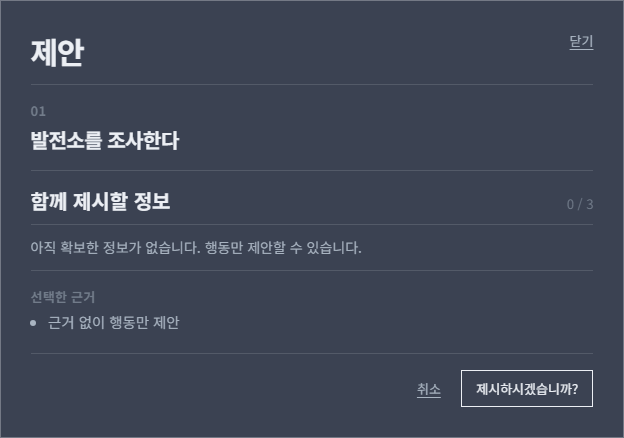
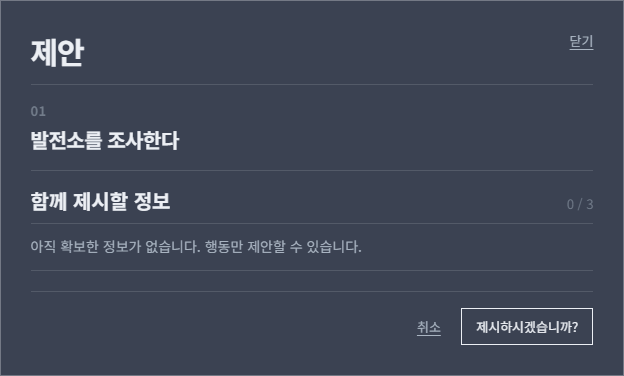
:memo: docs: refresh proposal dialog screenshots and guidance

diff --git a/src/styles/global.css b/src/styles/global.css
@@ -2428,8 +2428,7 @@ body {
 }
 
 .proposal-dialog-action p,
-.proposal-no-evidence,
-.proposal-selected-evidence span {
+.proposal-no-evidence {
   margin: 0;
   color: var(--plan-muted);
   font-size: 0.875rem;
@@ -2444,8 +2443,7 @@ body {
   padding: 1rem 0 0.6rem;
 }
 
-.proposal-evidence-heading p,
-.proposal-selected-evidence p {
+.proposal-evidence-heading p {
   margin: 0;
   color: var(--plan-ink);
   font-size: 1rem;
@@ -2505,29 +2503,6 @@ body {
 .proposal-no-evidence {
   border-bottom: 1px solid var(--plan-line);
   padding: 0.75rem 0;
-}
-
-.proposal-selected-evidence {
-  display: grid;
-  gap: 0.24rem;
-  margin-top: 1rem;
-  padding: 0;
-}
-
-.proposal-selected-evidence p {
-  color: var(--plan-faint);
-  font-family: "Noto Sans KR", sans-serif;
-  font-size: 0.84rem;
-  font-weight: 600;
-  letter-spacing: 0.02em;
-}
-
-.proposal-selected-evidence ul {
-  margin: 0;
-  padding-left: 1.1rem;
-  color: var(--plan-muted);
-  font-size: 0.9rem;
-  line-height: 1.6;
 }
 
 .proposal-dialog-actions {

diff --git a/src/components/report/ReportScreen.tsx b/src/components/report/ReportScreen.tsx
@@ -796,17 +796,6 @@ function ProposalEvidenceDialog({
           )}
         </div>
 
-        <div className="proposal-selected-evidence">
-          <p>선택한 근거</p>
-          <ul>
-            {selectedEvidenceIds.length === 0 ? (
-              <li>근거 없이 행동만 제안</li>
-            ) : (
-              selectedEvidenceIds.map((evidenceId) => <li key={evidenceId}>{EVIDENCE[evidenceId].title}</li>)
-            )}
-          </ul>
-        </div>
-
         <footer className="proposal-dialog-actions">
           <button type="button" className="proposal-cancel-button" onClick={onCancel}>취소</button>
           <button type="button" className="proposal-confirm-button" onClick={onConfirm}>제시하시겠습니까?</button>

diff --git a/src/styles/typography.css b/src/styles/typography.css
@@ -210,7 +210,6 @@
 .raw-log-window-lines p,
 .proposal-dialog-action p,
 .proposal-no-evidence,
-.proposal-selected-evidence span,
 .proposal-evidence-option small {
   font-size: var(--type-body-small);
   line-height: 1.55;
@@ -231,7 +230,6 @@
 .result-viewer-actor,
 .result-viewer-evidence strong,
 .proposal-dialog-action > span,
-.proposal-selected-evidence p,
 .proposal-evidence-heading > strong {
   font-size: var(--type-caption);
 }

diff --git a/README.md b/README.md
@@ -2,6 +2,8 @@
 
 ## [배포 URL: https://chaaaron000.github.io/beyond-the-screen-prototype/](https://chaaaron000.github.io/beyond-the-screen-prototype/)
 
+## [Penpot 워크스페이스](https://design.penpot.app/#/workspace?team-id=502b4555-3f5f-807a-8008-8a29dee3d6e7&file-id=502b4555-3f5f-807a-8008-8a2a27c83963&page-id=502b4555-3f5f-807a-8008-8a2a27c83964)
+
 OASIS 생활 구역 03에서 한서윤과 미라가 제한된 시간 안에 시설을 조사하고, 확보한 정보로 다음 행동을 판단하는 비주얼 노벨 프로토타입입니다.
 
 현재 구현 범위는 2막 Day 1의 플레이 가능한 수직 슬라이스입니다. 냉장 설비, 주 발전 계통, 서윤의 바이크를 둘러싼 우선순위 갈등과 조사 흐름을 확인할 수 있습니다.
@@ -135,9 +137,3 @@ public/assets/
 ├── ui/
 └── evidence/
 ```
-
-## 디자인 파일
-
-레이아웃·UI·에셋 디자인은 Penpot에서 관리합니다. 수정이 필요하면 아래 링크로 바로 이동하세요.
-
-[Penpot 워크스페이스 열기](https://design.penpot.app/#/workspace?team-id=502b4555-3f5f-807a-8008-8a29dee3d6e7&file-id=502b4555-3f5f-807a-8008-8a2a27c83963&page-id=502b4555-3f5f-807a-8008-8a2a27c83964)

diff --git a/AGENTS.md b/AGENTS.md
@@ -65,6 +65,8 @@
 - Keep dark and light report layouts at identical block positions and sizes; vary only the palette colors.
 
 ## Penpot Structure
+- When exporting shapes via the `penpot-mcp` `export_shape` tool for structural or layout inspection, use `format: "svg"`.
+- Use `format: "png"` only for confirming final rendered appearance (raster-only details like anti-aliasing); never use it to verify coordinates, sizes, colors, or text content.
 - Within each board, group shapes by document section (one group per document section, proposal entry, or dialog block) following the document's order; never leave all shapes flat in one board.
 - Name groups after the content they contain and keep group order matching the table of contents.
 
